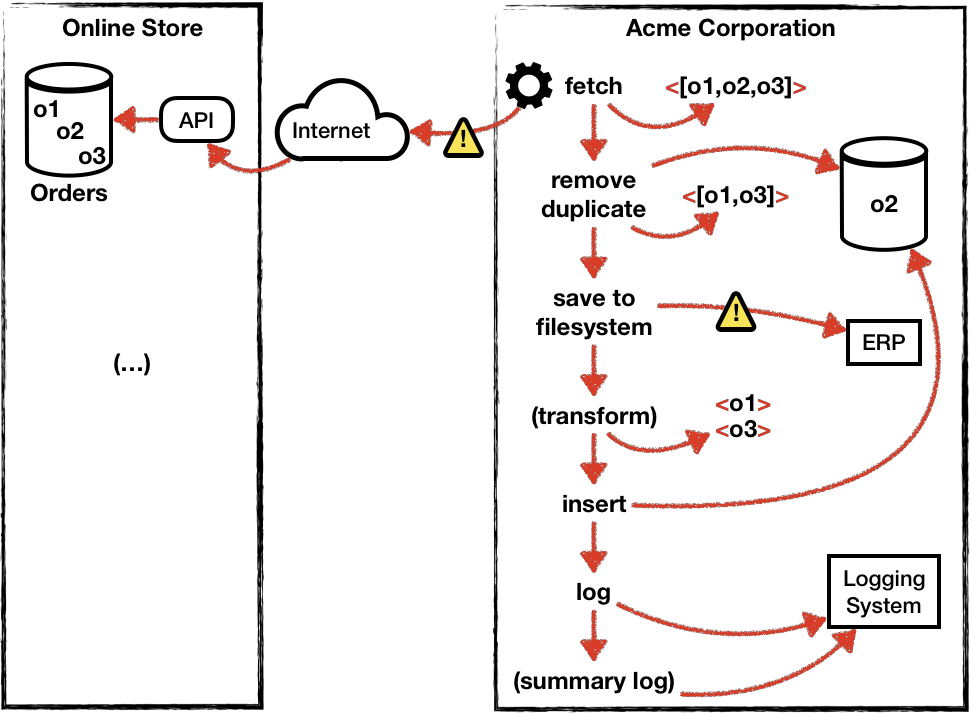
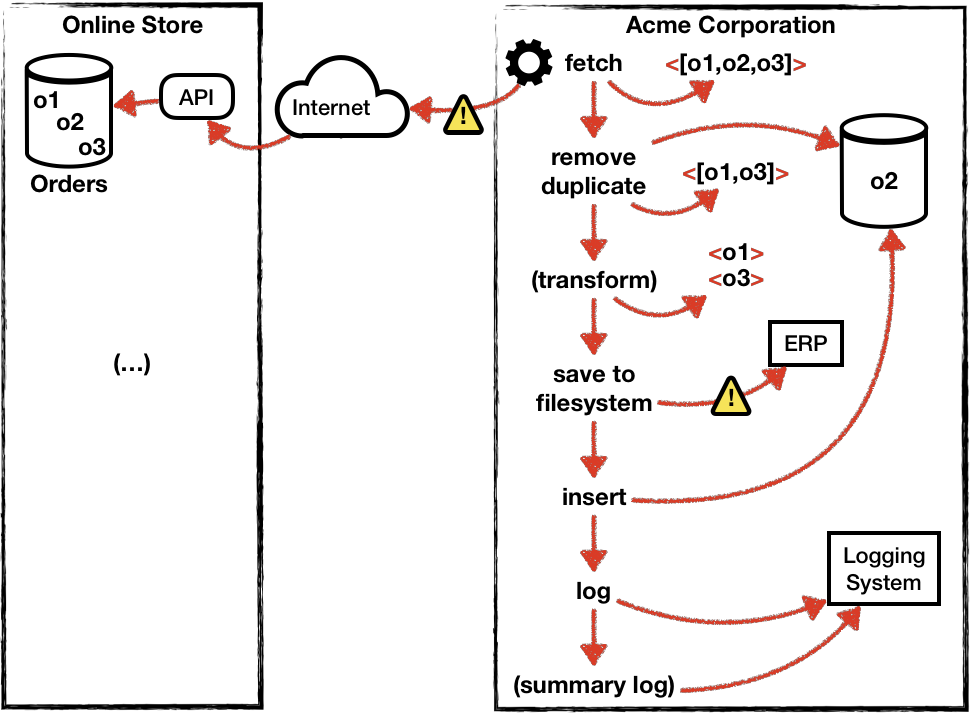
Fix workflow order in image

diff --git a/README.md b/README.md
@@ -2,6 +2,20 @@
 
 The objective of this kata is to practice with [vavr](http://www.vavr.io/) and [Resilience4j](http://resilience4j.github.io/resilience4j/).
 
+You have been hired to develop an application for Acme Corporation. Since they have a large history of unsuccessful projects, you are required to design a robust solution for their main business (online sales of heavily over-engineered products for road runner hunting). As a developer, you are supposed to develop a solution that move the orders from the online store to the site of the company. Orders can have duplicate items that you should remove before recording the order in the ERP and the audit database.
+
+You communicate with the ERP via a shared directory where you have to write the order. Every order produces a log message in the logging system, and summary log is written at the end of each execution.
+
+You are warned to beware of the frequent tendency of the Internet link to disconnect from the online store. Every time the Internet connection went down, the subsequent messages sent to the online store causes additional overhead in the link, delaying its recovery.
+
+It's a completely different story when the application fails to write a file in the filesystem shared with the ERP. In such a case, retrying the same operation after a few seconds will do the job.
+
+![Example 1](https://raw.githubusercontent.com/etorres/online-store-kata-vavr/master/images/online-store.png "Example 1")
+
 ## A 5-minute introduction to vavr
 
 Try is a data type used in [VAVR](http://www.vavr.io/vavr-docs/#_side_effects) to represent side-effects.
+
+You have 4 minutes left.
+
+## 
